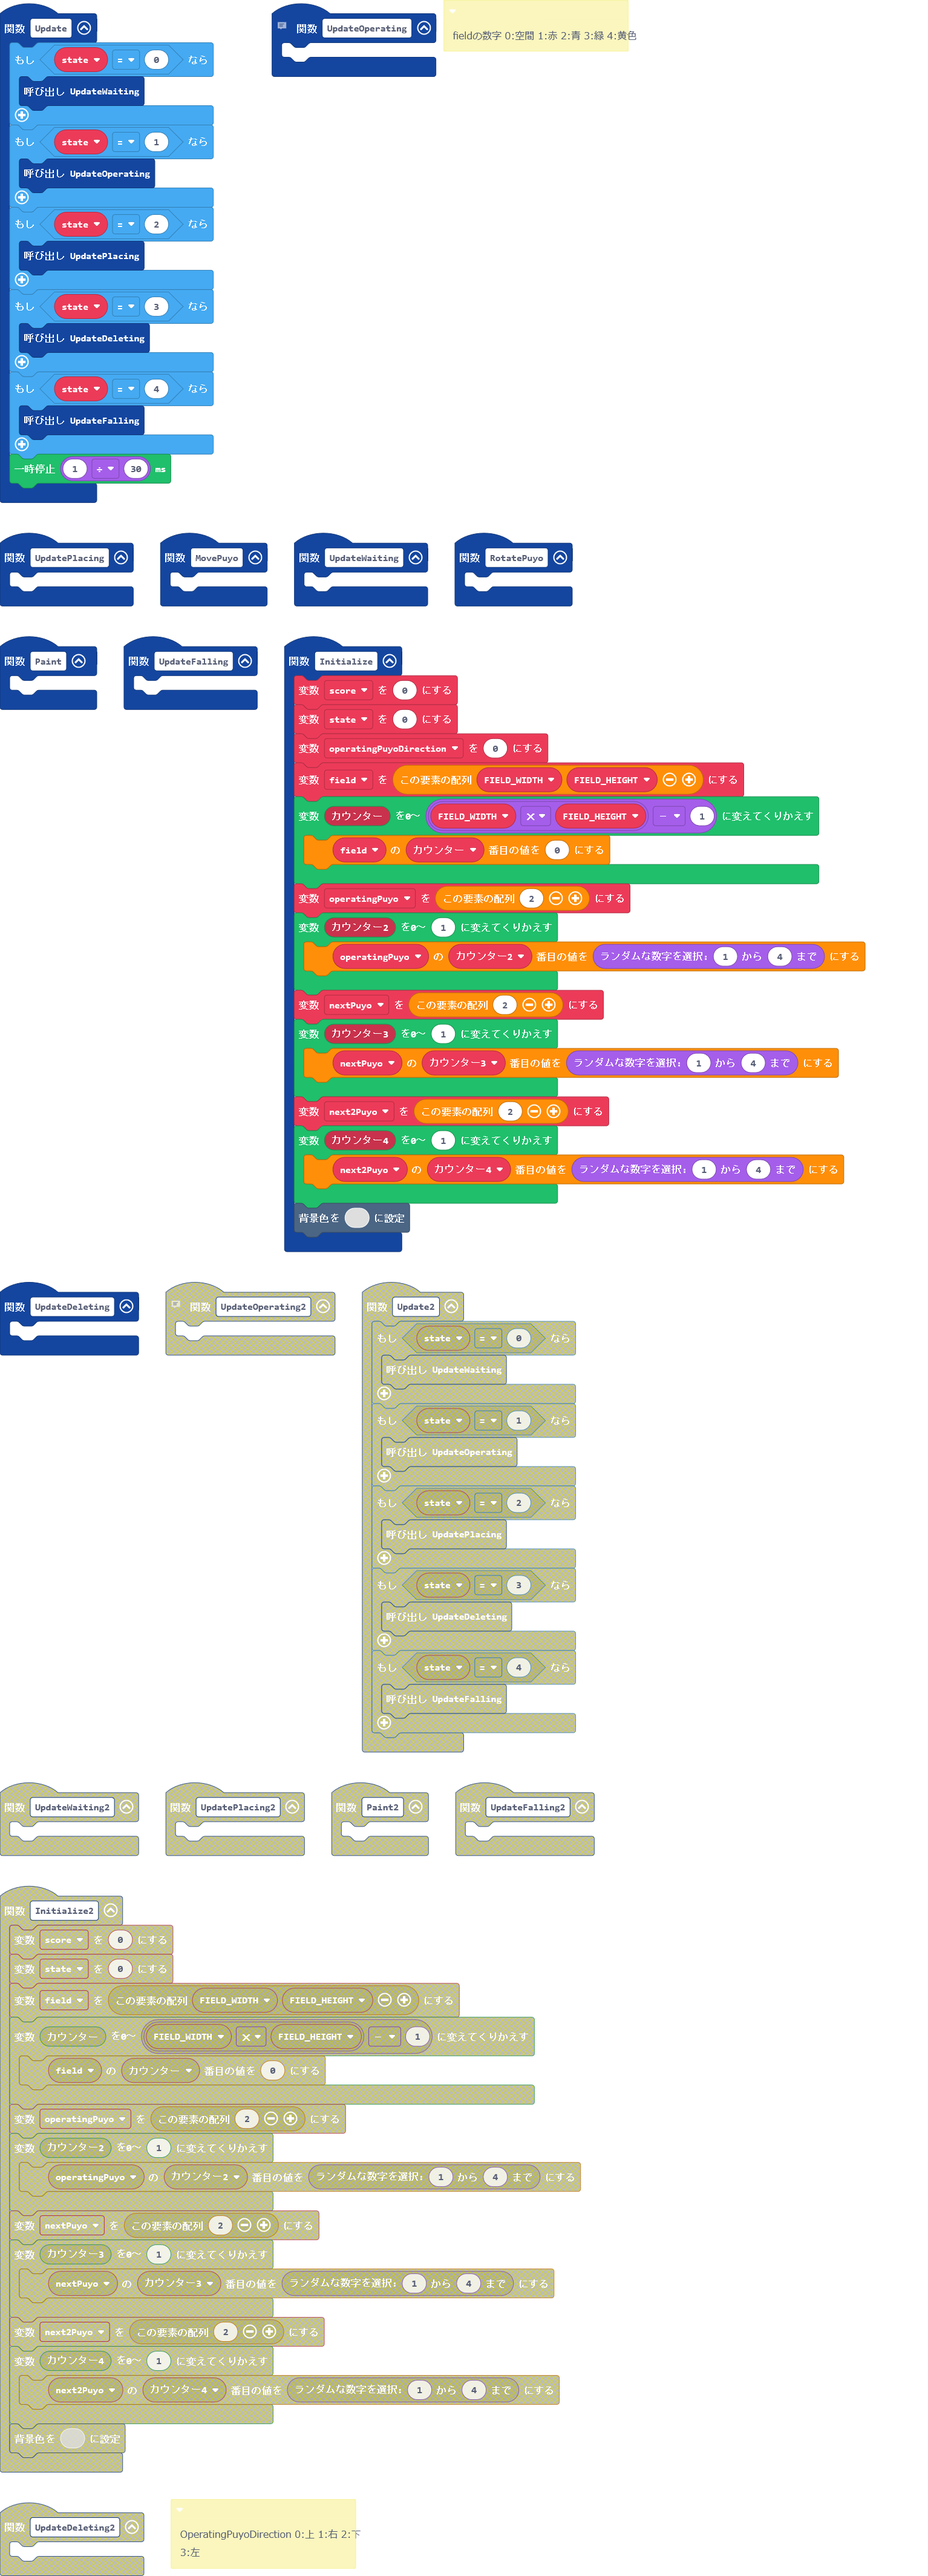
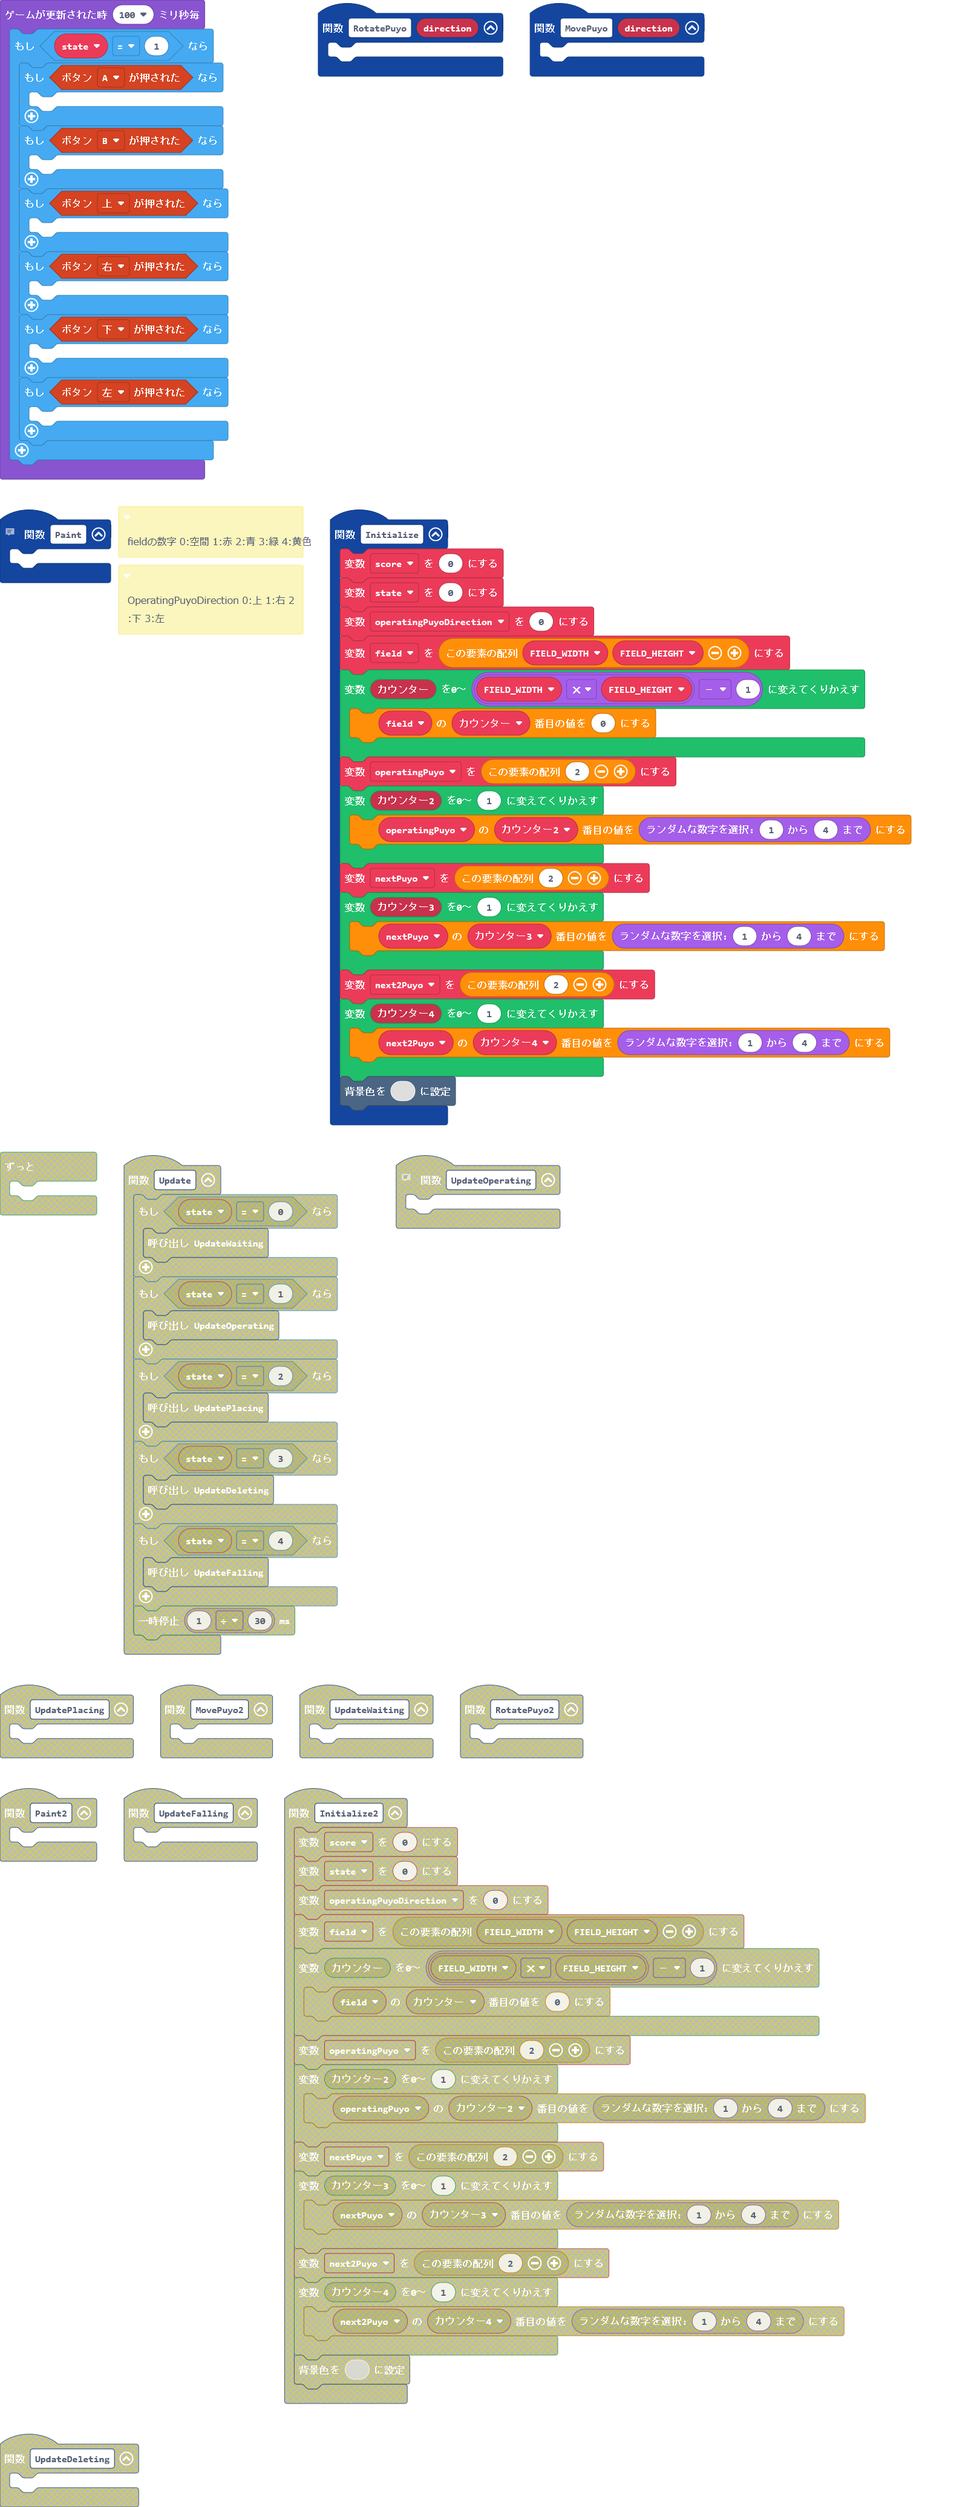
scratchと違ってイベントごとの処理ではできなかったのでフレームごとに処理する方式に戻った

diff --git a/main.ts b/main.ts
@@ -2,19 +2,6 @@ namespace SpriteKind {
     export const Puyo = SpriteKind.create()
 }
 /**
- * fieldの数字
- * 
- * 0:空間
- * 
- * 1:赤
- * 
- * 2:青
- * 
- * 3:緑
- * 
- * 4:黄色
- */
-/**
  * OperatingPuyoDirection
  * 
  * 0:上
@@ -49,10 +36,23 @@ namespace SpriteKind {
 function Paint () {
 	
 }
-function MovePuyo () {
+function MovePuyo (direction: number) {
 	
 }
-function RotatePuyo () {
+/**
+ * fieldの数字
+ * 
+ * 0:空間
+ * 
+ * 1:赤
+ * 
+ * 2:青
+ * 
+ * 3:緑
+ * 
+ * 4:黄色
+ */
+function RotatePuyo (direction: number) {
 	
 }
 function Initialize () {
@@ -82,12 +82,31 @@ let nextPuyo: number[] = []
 let operatingPuyo: number[] = []
 let field: number[] = []
 let operatingPuyoDirection = 0
-let score = 0
 let state = 0
+let score = 0
 let FIELD_HEIGHT = 0
 let FIELD_WIDTH = 0
 FIELD_WIDTH = 6
 FIELD_HEIGHT = 13
-forever(function () {
-	
+game.onUpdateInterval(100, function () {
+    if (state == 1) {
+        if (controller.A.isPressed()) {
+        	
+        }
+        if (controller.B.isPressed()) {
+        	
+        }
+        if (controller.up.isPressed()) {
+        	
+        }
+        if (controller.right.isPressed()) {
+        	
+        }
+        if (controller.down.isPressed()) {
+        	
+        }
+        if (controller.left.isPressed()) {
+        	
+        }
+    }
 })
